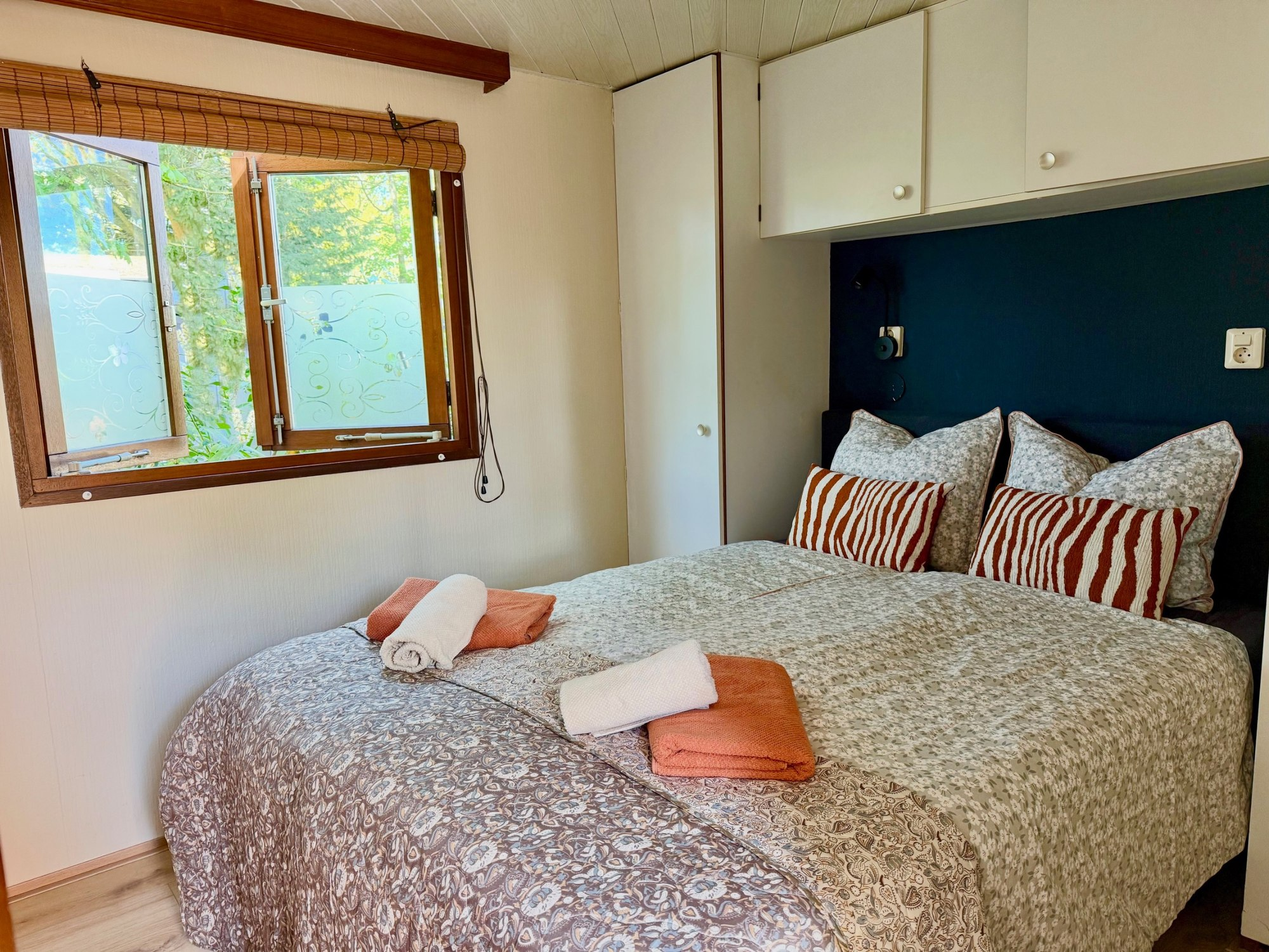
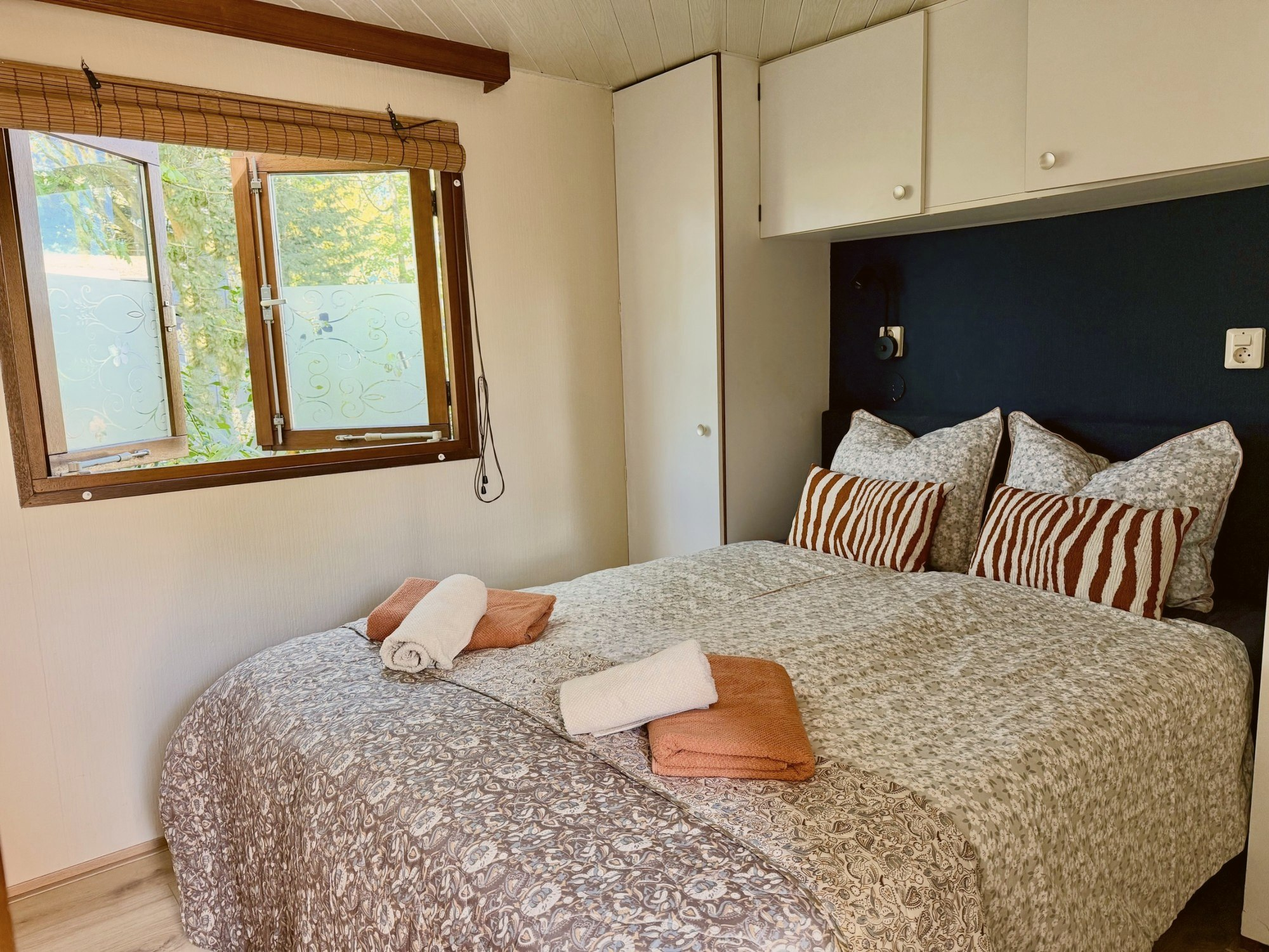
Binnenfoto's in dezelfde warme kleur als woonkamer foto 4
Claude-Session: https://claude.ai/code/session_01K26c18FEzjRNxtB2iZD7Av

diff --git a/CLAUDE.md b/CLAUDE.md
@@ -70,7 +70,7 @@
 
 - **Nieuwe uitstraling: LIVE sinds 15 okt 2026** (gemaakt op tak `claude/groen`, daarna samengevoegd in de live-tak). Keuzes van Marjolein: **mosgroen** (olijf, `--green-*` in globals.css) met crèmekleurige letters op de grote foto (`--photo-ink`). Grote foto bovenaan (`tuin.jpg`, haar originele foto) met alleen "Pleuntje" erop. Menu bovenin = losse crème woorden over de foto (Over ons … Reviews, Boeken, Contact), zonder logo en zonder knop, en het menu scrolt NIET mee (ze wil op de telefoon de ruimte voor foto's); op de telefoon een uitklapmenu. Binnenkijkje: grote eerste tegel (woonkamer) met de andere ruimtes ernaast (alle tegels staand maken wilde ze NIET; 'portretmodus' bedoelde ze als mooi bewerkt zoals een portretfoto), alleen de naam eronder, geen "Bekijk foto's"-knop of fotoaantal op de foto (vond ze lelijk/rommelig); bovenaan de zin "Klik op een foto om alle foto's van die ruimte te bekijken". Footer: dunne lijn-icoontjes in een rondje (speld met dennenboompje, envelop, telefoon), geen emoji.
   - **Herfstblad (24 okt 2026, keuze Marjolein; haar vriendin Kirsten vond de site bleekjes)**: brede gekleurde banen over de hele breedte van de voorkant (kleuren `--zand`, `--roest`, `--roest-donker`, `--salie`, `--schors` in globals.css). Volgorde: foto, welkom + vier punten op zand, twee foto's op crème, Over ons op roestbruin (portret in crème lijst, witte letters), Binnenkijkje crème, Voorzieningen + Omgeving samen op saliegroen, Reviews crème, Boeken op donker mosgroen (`bg-forest-700`, crème knop), Een vraag crème, footer donkerbruin (`bg-schors`). Koppen op de voorkant roestbruin (`text-roest-donker`); de knoppen 'Bekijk het overzicht', 'Hier' en 'Lees de reviews' roestbruin met witte letters; het schuine 'Pleuntje'/kopwoord (`.glossy-text`, `--terracotta`) is roestbruin. Later dezelfde avond (wens Marjolein: 'nog te saai, meer kleur, bijv. achter de foto's'): geen crème stroken meer op de voorkant; twee foto's boven Over ons op perzik (`--perzik`), Binnenkijkje op zand, Reviews op perzik, Een vraag op zand. **25 okt 2026 (wens Marjolein: geen roze, alles één terracotta-reeks naast het groen, banen die in kleur overlopen):** `--perzik` is nu licht abrikoos #f0d5b9 (was roze); klassen `.band-fotos` (zand → abrikoos → licht cognac), `.band-overons` (roest → `--terra-midden`), `.band-binnenkijkje`/`.band-binnen` (terra-midden → `--cognac` #d29a6f, de kleur van de bank, → licht) en `.band-reviews` in globals.css. Vier punten bij de welkomsttekst staan in een donker mosgroen vlak met icoontjes in perzik rondjes (Highlights.tsx). Heidepaars geprobeerd en afgewezen. /beheer en de kalender zijn niet veranderd. Gekozen uit drie voorbeelden (mosgroen, herfstblad, bos & herfst).
-  - **Foto's**: niet meer samenpersen; Marjolein let op scherpte (zoomt in op de iPad). Haar eigen uploads tot ~2000 px, JPEG-kwaliteit 86-88. Woonkamer (10 foto's), badkamer en twee slaapkamerfoto's zijn op 15 okt vervangen door haar originelen. Over ons: `marjolein-en-ed.jpg` = haar selfie bij de akker, hele foto met lucht, staand 3:4, 340px breed (220 vond ze te klein, 560 te groot). Binnenkijkje: overal dezelfde indeling als op de telefoon (woonkamer groot bovenaan, rest twee aan twee). Nog oud en vrij klein: keuken (alle), `woonkamer.jpg` (bovenste fotocollage en layout.tsx), terras. Ze stuurt originelen; vraag welke ruimte. Slaapkamers (25 okt 2026): slaapkamer-7 (vooraan = tegel, op haar verzoek), -2, -8, -5, -9 (haar originelen; -9 = eenpersoonsbed, door Claude opgelicht en iets warmer gemaakt (was -6, oogde 'alsof het licht uit is'); -8 vervangt -4, zelfde foto in haar bewerkte versie; -7 = tweepersoonskamer recht van voren met raam en verwarming); `slaapkamer-1.jpg` en de oude kleine `slaapkamer-3.jpg` zijn op haar verzoek weggehaald. De eerste foto in de lijst is ook de tegel in het Binnenkijkje.
+  - **Foto's**: niet meer samenpersen; Marjolein let op scherpte (zoomt in op de iPad). Haar eigen uploads tot ~2000 px, JPEG-kwaliteit 86-88. Woonkamer (10 foto's), badkamer en twee slaapkamerfoto's zijn op 15 okt vervangen door haar originelen. Over ons: `marjolein-en-ed.jpg` = haar selfie bij de akker, hele foto met lucht, staand 3:4, 340px breed (220 vond ze te klein, 560 te groot). Binnenkijkje: overal dezelfde indeling als op de telefoon (woonkamer groot bovenaan, rest twee aan twee). Nog oud en vrij klein: keuken (alle), `woonkamer.jpg` (bovenste fotocollage en layout.tsx), terras. Ze stuurt originelen; vraag welke ruimte. Slaapkamers (25 okt 2026): slaapkamer-7 (vooraan = tegel, op haar verzoek), -2, -8, -5, -9 (haar originelen; -9 = eenpersoonsbed, door Claude opgelicht en iets warmer gemaakt (was -6, oogde 'alsof het licht uit is'); -8 vervangt -4, zelfde foto in haar bewerkte versie; -7 = tweepersoonskamer recht van voren met raam en verwarming); `slaapkamer-1.jpg` en de oude kleine `slaapkamer-3.jpg` zijn op haar verzoek weggehaald. De eerste foto in de lijst is ook de tegel in het Binnenkijkje. **Kleur gelijkgetrokken (25 okt 2026, wens Marjolein)**: alle 20 binnenfoto's (woonkamer, woonkamer.jpg, keuken, badkamer, slaapkamers) in de warme kleur van haar favoriet `woonkamer-11.jpg` (woonkamer foto 4): kleuroverdracht in LAB (gemiddelde/spreiding naar die foto, sterkte 0,65), nooit donkerder dan het origineel. Buitenfoto's (terras, tuin, exterieur) bewust niet. Originelen staan in de git-geschiedenis. Nieuwe foto's van binnen voortaan ook zo bewerken.
   - Menu/taalknopjes op de telefoon staan iets lager (`pt-10` in Header.tsx, 23 okt 2026; eerst pt-6, ze wilde nog iets lager): Safari op haar iPhone vervaagde bovenin NL · DE · EN · FR.
   - Knop 'Geselecteerde data wissen' (22 okt, wens Marjolein) onder de kalendermaanden zodra er een dag gekozen is (`KALENDER[taal].wissen`, vier talen); tikken naast de kalender wist ook nog steeds.
   - Kalender (15 okt): bezette dagen roestrood (`--booked` #b5603a) zodat ze opvallen tegen het mosgroen; incheck/vertrekdagen houden altijd hun halve kleur (ook als je er niet kunt aankomen); alle cijfers `text-forest-700`, alleen voorbije/niet-kiesbare dagen vaag en gekozen dagen wit op felgroen (ze vindt dat prima).
